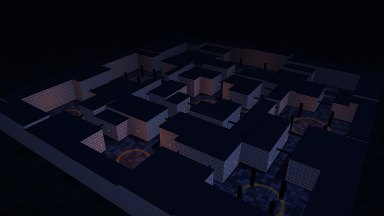
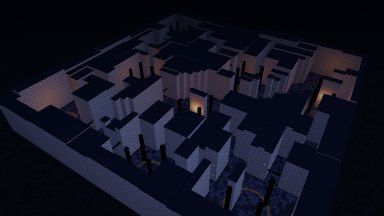
Horde's three compounds redesigned: three different layouts, far taller walls and pillars, wider and more winding halls
- Stone Warrens is now a warren of sixteen small rooms joined by passages that dogleg and zigzag, some neighbours with no door between them
- Lantern Alleys is a town with one broad street winding diagonally from gate to gate, yards off it, and twisting back alleys
- Frost Garrison is a hub and eight great halls joined by two long snaking tunnels and crooked side passages
- Walls and pillars stand 14 m (were 6.4 m); beams at two heights; lanterns high and low
- Halls are 7.5 m wide (were 6 m), back alleys 5 m, the main street 10 m; rooms have partitions
- Laid out on a finer grid (2.5 m cells), halls drawn point to point so they can turn anywhere

Changed region(s): [[0.0, 0.0556, 0.9688, 1.0], [0.625, 0.9722, 0.6562, 1.0], [0.2812, 0.1944, 0.3125, 0.2222]]

diff --git a/src/compound.js b/src/compound.js
@@ -1,35 +1,56 @@
-// The Horde's maps: compounds. A solid mass of buildings with rooms and corridors cut into it, like a floor plan seen
-// from above: big rooms to make a stand in, long corridors to run down, and loops everywhere so you are never cornered
-// for long. There is no way over the walls (they can't be hooked, and an unseen ceiling stops a climb), so the horde
-// has to come at you through the doors, and you have to keep moving. Beams cross the corridors overhead and pillars
-// stand in the big rooms: those you can hook, to haul yourself along.
+// The Horde's maps: compounds. A solid mass of buildings with rooms and passages cut into it, like a floor plan seen
+// from above: rooms to make a stand in, passages that twist and double back, and loops everywhere so you are never
+// cornered for long. The walls stand far too high to get over (they can't be hooked, and an unseen ceiling at their
+// tops stops any climb), so the horde has to come at you through the doors, and you have to keep moving. Beams cross
+// the passages overhead and tall pillars stand in the big rooms: those you can hook, to haul yourself along or up.
 //
-// A layout is drawn on a grid of 3 m cells: rooms and halls are rectangles of cells [i0, j0, i1, j1] (inclusive) cut out
-// of the solid. Everything else here is worked out from that: the blocks, pillars, crates, beams, lanterns, the places
-// to come in, the painted floor, and a grid the bots find their way on.
+// A layout is drawn on a grid of 2.5 m cells, cut out of the solid:
+//   rooms  rectangles of cells [i0, j0, i1, j1] (inclusive);
+//   halls  [width, [i, j], [i, j], ...]: a passage `width` cells wide run from point to point (each point is the
+//          top-left cell of the passage there), turning wherever the points do; a slanted leg is cut in steps;
+//   walls  rectangles put back in afterwards (a partition across a room).
+// The three are laid out differently on purpose: a warren of small rooms and doglegs, a town with one winding
+// street and back alleys, and a fort of great halls joined by long snaking tunnels. Everything else here is worked
+// out from the grid: the blocks, pillars, crates, beams, lanterns, the places to come in, the painted floor, and
+// the way the bots find their route.
 import * as THREE from 'three';
 
-const CELL = 3, G = 42, H = 6.4; // cell size, cells each way, how high the walls stand (and where the unseen ceiling is)
+const CELL = 2.5, G = 50, H = 14; // cell size, cells each way, how high the walls stand (and where the unseen ceiling is)
 const LAYOUTS = {
-  // Stone Warrens: nine rooms of a castle joined by passages, a court in the middle
-  warrens: { rooms: [[16, 32, 25, 39], [2, 24, 9, 31], [3, 4, 10, 11], [16, 2, 24, 8], [30, 3, 39, 10], [31, 18, 39, 26], [30, 32, 38, 38], [16, 15, 25, 23], [3, 15, 8, 19]],
-    halls: [[20, 24, 21, 31], [6, 34, 15, 35], [6, 32, 7, 33], [5, 20, 6, 23], [5, 12, 6, 14], [11, 6, 15, 7], [25, 5, 29, 6], [35, 11, 36, 17], [34, 27, 35, 31], [26, 35, 29, 36],
-      [9, 17, 15, 18], [19, 9, 20, 14], [26, 20, 30, 21], [24, 12, 25, 14], [26, 12, 33, 13], [32, 11, 33, 11], [10, 27, 15, 28], [14, 22, 15, 26]] },
-  // Lantern Alleys: a town at night. A ring of alleys round a well, a spoke to each side, yards and nooks off it
-  alleys: { rooms: [[17, 33, 24, 39], [2, 16, 11, 24], [15, 2, 26, 9], [31, 14, 39, 22], [18, 18, 23, 23], [3, 31, 9, 38], [32, 3, 38, 8], [31, 30, 38, 37]],
-    halls: [[13, 13, 28, 14], [13, 27, 28, 28], [13, 13, 14, 28], [27, 13, 28, 28], [20, 15, 21, 17], [20, 24, 21, 26], [15, 20, 17, 21], [24, 20, 26, 21],
-      [20, 10, 21, 12], [20, 29, 21, 32], [12, 20, 12, 21], [29, 18, 30, 19], [10, 35, 16, 36], [5, 25, 6, 30], [6, 5, 7, 15], [8, 5, 14, 6], [27, 5, 31, 6], [35, 9, 36, 13], [34, 23, 35, 29], [25, 34, 30, 35]] },
-  // Frost Garrison: a fort in the snow. A great drill yard, a hall on each side of it, a walk right round inside the walls, a tower at each corner
-  garrison: { rooms: [[14, 14, 27, 27], [17, 2, 24, 7], [16, 33, 25, 39], [2, 17, 8, 24], [33, 16, 39, 25], [2, 3, 7, 9], [34, 3, 39, 9], [2, 32, 7, 38], [34, 32, 39, 38]],
-    halls: [[20, 8, 21, 13], [20, 28, 21, 32], [9, 20, 13, 21], [28, 20, 32, 21], [4, 10, 37, 11], [4, 30, 37, 31], [4, 10, 5, 31], [36, 10, 37, 31]] },
+  // Stone Warrens: sixteen small rooms in a castle, joined by short passages that dogleg and zigzag; some rooms
+  // have no door to their neighbour, so the way round is never the straight one
+  warrens: { rooms: [[16, 36, 24, 47], [2, 2, 9, 8], [14, 2, 22, 7], [14, 8, 16, 10], [27, 2, 34, 9], [39, 2, 47, 10], [2, 13, 8, 21], [13, 12, 20, 19], [25, 14, 33, 22], [38, 15, 47, 22],
+      [2, 26, 10, 33], [15, 25, 22, 31], [27, 27, 35, 34], [40, 27, 47, 35], [3, 38, 11, 47], [29, 39, 36, 47], [41, 40, 47, 47]],
+    halls: [[3, [10, 4], [13, 4]], [2, [23, 3], [24, 3], [24, 6], [26, 6]], [3, [35, 5], [38, 5]], [2, [4, 9], [4, 10], [6, 10], [6, 12]], [3, [9, 16], [12, 16]],
+      [2, [18, 8], [18, 9], [16, 9], [16, 11]], [2, [30, 10], [30, 11], [28, 11], [28, 13]], [3, [34, 18], [37, 18]], [2, [43, 11], [43, 12], [41, 12], [41, 14]],
+      [2, [4, 22], [4, 23], [6, 23], [6, 25]], [2, [14, 20], [14, 22], [18, 22], [18, 24]], [3, [23, 28], [26, 28]], [2, [31, 23], [31, 24], [29, 24], [29, 26]], [3, [36, 30], [39, 30]],
+      [2, [5, 34], [5, 35], [7, 35], [7, 37]], [3, [12, 41], [15, 41]], [2, [19, 32], [19, 33], [21, 33], [21, 35]], [3, [25, 42], [28, 42]], [2, [32, 35], [32, 36], [34, 36], [34, 38]],
+      [2, [45, 36], [45, 37], [43, 37], [43, 39]], [2, [21, 12], [23, 12], [23, 10], [25, 10], [25, 13]], [2, [11, 30], [12, 30], [12, 34], [14, 34], [14, 37], [15, 37]], [2, [37, 44], [38, 44], [38, 37], [39, 37]]],
+    walls: [[20, 39, 20, 44], [29, 16, 29, 20], [41, 6, 45, 6], [5, 29, 7, 29]] },
+  // Lantern Alleys: a town at night. One broad street winds through it from the south-west gate to the north-east
+  // one; yards open off it, and narrow back alleys twist between them
+  alleys: { rooms: [[2, 38, 8, 47], [8, 24, 15, 31], [22, 26, 30, 34], [26, 12, 34, 19], [41, 10, 48, 18], [40, 1, 48, 7], [2, 2, 10, 9], [36, 36, 46, 46], [3, 13, 9, 19], [22, 40, 30, 47]],
+    halls: [[4, [3, 42], [12, 42], [18, 36], [18, 28], [24, 22], [32, 22], [38, 16], [38, 8], [44, 4]],
+      [2, [5, 37], [5, 34], [9, 34], [9, 32]], [2, [10, 23], [10, 21], [6, 21], [6, 20]], [2, [5, 12], [5, 10]], [2, [11, 5], [15, 5], [15, 9], [20, 9], [20, 14], [25, 14]],
+      [2, [29, 20], [29, 21]], [2, [35, 14], [37, 14]], [2, [25, 35], [25, 39]], [2, [31, 43], [33, 43], [33, 40], [35, 40]], [2, [42, 35], [42, 30], [45, 30], [45, 24], [43, 24], [43, 19]],
+      [2, [31, 30], [34, 30], [34, 34], [37, 34], [37, 35]], [2, [16, 27], [17, 27]], [2, [16, 44], [21, 44]], [2, [39, 3], [30, 3], [30, 11]], [2, [11, 28], [11, 34], [13, 34], [13, 39]]],
+    walls: [[25, 29, 27, 29], [39, 40, 39, 43], [44, 13, 46, 13]] },
+  // Frost Garrison: a fort in the snow. A hub in the middle and eight great halls round it, joined by two long
+  // tunnels that snake across the north and the south, and by crooked passages down each side
+  garrison: { rooms: [[20, 41, 29, 47], [19, 19, 30, 30], [3, 3, 13, 11], [36, 3, 46, 12], [3, 37, 13, 46], [36, 38, 46, 46], [20, 2, 29, 8], [2, 20, 8, 29], [41, 19, 47, 30]],
+    halls: [[3, [14, 6], [16, 6], [16, 12], [23, 12], [23, 15], [32, 15], [32, 9], [35, 9]], [3, [14, 42], [16, 42], [16, 36], [24, 36], [24, 33], [33, 33], [33, 40], [35, 40]],
+      [2, [24, 9], [24, 11]], [2, [25, 39], [25, 40]], [2, [6, 12], [6, 15], [4, 15], [4, 19]], [2, [4, 30], [4, 33], [7, 33], [7, 36]], [2, [42, 13], [42, 16], [44, 16], [44, 18]], [2, [44, 31], [44, 34], [41, 34], [41, 37]],
+      [3, [24, 18], [24, 18]], [3, [24, 31], [24, 31]], [3, [9, 24], [13, 24], [13, 26], [18, 26]], [3, [31, 23], [35, 23], [35, 26], [40, 26]],
+      [2, [10, 12], [10, 17], [13, 17], [13, 20]], [2, [38, 31], [38, 35], [36, 35], [36, 37]]],
+    walls: [[24, 23, 25, 26], [8, 6, 8, 8], [41, 41, 41, 43]] },
 };
 export const COMPOUNDS = Object.keys(LAYOUTS);
 const THEMES = {
-  warrens: { sky: { top: 0x3f6fb4, mid: 0xf0c79a, bot: 0xd9a070, fog: 0xe6c6a4, near: 70, far: 330, hemiSky: 0xfff2dc, hemiGround: 0xa8947c, hemi: 1.75, sunColor: 0xffe2b8, sun: 2.3, sunOff: new THREE.Vector3(-24, 78, 20) },
+  warrens: { sky: { top: 0x3f6fb4, mid: 0xf0c79a, bot: 0xd9a070, fog: 0xe6c6a4, near: 70, far: 330, hemiSky: 0xfff2dc, hemiGround: 0xb8a48c, hemi: 2.2, sunColor: 0xffe2b8, sun: 2.3, sunOff: new THREE.Vector3(-24, 78, 20) },
     wall: 0xb8b0a4, roof: 0x5d5a60, floor: ['#8d8a86', '#74716e', '#a09c96'], lamp: 0xffb060, beam: 0x5a3d28, crest: 'rgba(150,40,34,0.55)', land: 0x7c8a5c },
-  alleys: { sky: { top: 0x04060f, mid: 0x1b2440, bot: 0x0b0f1c, fog: 0x1a2238, near: 40, far: 260, hemiSky: 0x8f9fd8, hemiGround: 0x3a3440, hemi: 1.3, sunColor: 0xa9c0ff, sun: 1.5, sunOff: new THREE.Vector3(26, 80, -18) },
+  alleys: { sky: { top: 0x04060f, mid: 0x1b2440, bot: 0x0b0f1c, fog: 0x1a2238, near: 40, far: 260, hemiSky: 0x9fafe8, hemiGround: 0x4a4450, hemi: 1.7, sunColor: 0xa9c0ff, sun: 1.5, sunOff: new THREE.Vector3(26, 80, -18) },
     wall: 0xd9cfbd, roof: 0x23252d, floor: ['#4c4a50', '#3c3a40', '#5a585e'], lamp: 0xffa040, beam: 0x3a2618, crest: 'rgba(214,150,60,0.5)', land: 0x232a26, night: true, timber: true },
-  garrison: { sky: { top: 0x8fa6c6, mid: 0xe9eef4, bot: 0xffffff, fog: 0xe2e8f0, near: 50, far: 280, hemiSky: 0xffffff, hemiGround: 0xa8b4c4, hemi: 1.35, sunColor: 0xfff6ea, sun: 1.7, sunOff: new THREE.Vector3(20, 76, 28) },
+  garrison: { sky: { top: 0x8fa6c6, mid: 0xe9eef4, bot: 0xffffff, fog: 0xe2e8f0, near: 50, far: 280, hemiSky: 0xffffff, hemiGround: 0xb8c4d4, hemi: 1.75, sunColor: 0xfff6ea, sun: 1.7, sunOff: new THREE.Vector3(20, 76, 28) },
     wall: 0xb9c2cc, roof: 0xf2f6fa, floor: ['#dfe5ec', '#c9d1da', '#eef2f6'], lamp: 0xffc070, beam: 0x4a3a30, crest: 'rgba(44,90,160,0.5)', land: 0xe6ecf2 },
 };
 
@@ -38,9 +59,15 @@ export function buildCompound(A, T) {
   A.plats = []; A.pillars = []; A.killY = -30; A.setSky(TH.sky);
   const O = -G * CELL / 2, cx = (i) => O + (i + 0.5) * CELL, X0 = (i) => O + i * CELL; // (a cell's middle; its near edge)
 
-  // ---- the grid: '#' solid, '.' floor, 'o' a pillar, 'x' a crate
+  // ---- the grid: '#' solid, '.' floor, 'o' a pillar, 'x' a crate. Rooms are cut first, then the halls from point to point, then the partitions put back
   const g = Array.from({ length: G }, () => Array(G).fill('#'));
-  for (const [i0, j0, i1, j1] of [...L.rooms, ...L.halls]) for (let j = j0; j <= j1; j++) for (let i = i0; i <= i1; i++) g[j][i] = '.';
+  const carve = (i0, j0, i1, j1, c) => { for (let j = Math.max(1, j0); j <= Math.min(G - 2, j1); j++) for (let i = Math.max(1, i0); i <= Math.min(G - 2, i1); i++) g[j][i] = c; };
+  for (const [i0, j0, i1, j1] of L.rooms) carve(i0, j0, i1, j1, '.');
+  const legs = []; // (every straight leg of every hall: [i, j, length, does it run along z, width], for the beams)
+  for (const [w, ...pts] of L.halls) for (let k = 0; k < pts.length; k++) { const [a, b] = pts[k], [c, d] = pts[Math.min(k + 1, pts.length - 1)], n = Math.max(Math.abs(c - a), Math.abs(d - b), 1);
+    for (let s = 0; s <= n; s++) { const i = Math.round(a + (c - a) * s / n), j = Math.round(b + (d - b) * s / n); carve(i, j, i + w - 1, j + w - 1, '.'); } // (a slanted leg comes out stepped)
+    if (k + 1 < pts.length && (a === c || b === d)) legs.push(a === c ? [a, Math.min(b, d), Math.abs(d - b) + w, true, w] : [Math.min(a, c), b, Math.abs(c - a) + w, false, w]); }
+  for (const [i0, j0, i1, j1] of L.walls || []) carve(i0, j0, i1, j1, '#');
   const at = (i, j) => (i < 0 || j < 0 || i >= G || j >= G ? '#' : g[j][i]), open = (i, j) => at(i, j) !== '#', walk = (i, j) => at(i, j) === '.';
   const spawnCells = [];
   for (const [i0, j0, i1, j1] of L.rooms) {
@@ -89,25 +116,26 @@ export function buildCompound(A, T) {
 
   // ---- pillars (to hook, and to fight round) and crates (to jump on)
   for (let j = 0; j < G; j++) for (let i = 0; i < G; i++) {
-    if (g[j][i] === 'o') { A.addDisc(cx(i), cx(j), 0.62, 0, H, id === 'alleys' ? beamM : wallM, 12); A.pillars.push({ x: cx(i), z: cx(j), w: 1.3 }); }
+    if (g[j][i] === 'o') { A.addDisc(cx(i), cx(j), 0.8, 0, H, id === 'alleys' ? beamM : wallM, 14); A.pillars.push({ x: cx(i), z: cx(j), w: 1.7 }); } // (as tall as the walls: hook it high and swing)
     if (g[j][i] === 'x') { const s = 0.75 + r() * 0.3, hh = 1.0 + r() * 0.5; A.addBox(cx(i) - s, cx(i) + s, 0, hh, cx(j) - s, cx(j) + s, crateM, { plain: true }); } }
 
   // ---- beams overhead along every hall, to hook and haul yourself down it (not solid: you pass under them)
-  { const beams = [];
-    for (const [i0, j0, i1, j1] of L.halls) { const w = i1 - i0 + 1, d = j1 - j0 + 1, alongZ = d >= w, n = alongZ ? d : w;
-      for (let k = 0; k < n; k += 4) { const j = alongZ ? j0 + k : j0, i = alongZ ? i0 : i0 + k;
-        const b = alongZ ? { x0: X0(i0), x1: X0(i1 + 1), y0: 4.5, y1: 5.0, z0: cx(j) - 0.22, z1: cx(j) + 0.22 } : { x0: cx(i) - 0.22, x1: cx(i) + 0.22, y0: 4.5, y1: 5.0, z0: X0(j0), z1: X0(j1 + 1) };
-        A.rayBoxes.push(b); beams.push(b); } }
+  { const beams = []; let nb = 0;
+    for (const [i, j, len, alongZ, w] of legs) for (let k = 1; k < len; k += 4) { const bi = alongZ ? i : i + k, bj = alongZ ? j + k : j, span = Array.from({ length: w }, (_, q) => (alongZ ? open(bi + q, bj) : open(bi, bj + q))).every(Boolean);
+      if (!span || (alongZ ? open(bi - 1, bj) || open(bi + w, bj) : open(bi, bj - 1) || open(bi, bj + w))) continue; // (only where there is a wall at each end to carry it)
+      const y = nb++ % 2 ? 9.2 : 5; // (a low one, then a high one)
+      const b = alongZ ? { x0: X0(bi), x1: X0(bi + w), y0: y, y1: y + 0.5, z0: cx(bj) - 0.24, z1: cx(bj) + 0.24 } : { x0: cx(bi) - 0.24, x1: cx(bi) + 0.24, y0: y, y1: y + 0.5, z0: X0(bj), z1: X0(bj + w) };
+      A.rayBoxes.push(b); beams.push(b); }
     const im = new THREE.InstancedMesh(new THREE.BoxGeometry(1, 1, 1), beamM, beams.length), mt = new THREE.Matrix4();
     beams.forEach((b, k) => { mt.makeScale(b.x1 - b.x0, b.y1 - b.y0, b.z1 - b.z0).setPosition((b.x0 + b.x1) / 2, (b.y0 + b.y1) / 2, (b.z0 + b.z1) / 2); im.setMatrixAt(k, mt); }); im.castShadow = true; im.frustumCulled = false; S.add(im); }
 
   // ---- lanterns on the walls (they glow; at night a light in the middle of each big room too)
   { const lamps = [];
     for (let j = 0; j < G; j++) for (let i = 0; i < G; i++) { if (!open(i, j) || (i * 7 + j * 13) % 5) continue;
-      for (const [di, dj] of [[1, 0], [-1, 0], [0, 1], [0, -1]]) if (!open(i + di, j + dj)) { lamps.push([cx(i) + di * (CELL / 2 - 0.12), 3.1, cx(j) + dj * (CELL / 2 - 0.12)]); break; } }
+      for (const [di, dj] of [[1, 0], [-1, 0], [0, 1], [0, -1]]) if (!open(i + di, j + dj)) { lamps.push([cx(i) + di * (CELL / 2 - 0.12), 3.1, cx(j) + dj * (CELL / 2 - 0.12)]); if ((i + j) % 2) lamps.push([cx(i) + di * (CELL / 2 - 0.12), 8.8, cx(j) + dj * (CELL / 2 - 0.12)]); break; } } // (and a second lantern high up on some)
     const im = new THREE.InstancedMesh(new THREE.BoxGeometry(0.22, 0.34, 0.22), lampM, lamps.length), mt = new THREE.Matrix4();
     lamps.forEach(([x, y, z], k) => { mt.makeTranslation(x, y, z); im.setMatrixAt(k, mt); }); im.frustumCulled = false; S.add(im);
-    if (TH.night && !low) for (const [i0, j0, i1, j1] of L.rooms.slice(0, 6)) { const p = new THREE.PointLight(TH.lamp, 26, 34, 1.6); p.position.set(X0((i0 + i1 + 1) / 2), 4.6, X0((j0 + j1 + 1) / 2)); S.add(p); } }
+    if (TH.night && !low) for (const [i0, j0, i1, j1] of L.rooms.slice(0, 6)) { const p = new THREE.PointLight(TH.lamp, 44, 46, 1.6); p.position.set(X0((i0 + i1 + 1) / 2), 7, X0((j0 + j1 + 1) / 2)); S.add(p); } }
 
   // ---- where fighters come in: the middle of every room, and near the ends of the big ones
   for (const [i, j] of spawnCells) { if (!walk(Math.round(i), Math.round(j))) continue; const sp = new THREE.Vector3(O + (i + 0.5) * CELL, 0.05, O + (j + 0.5) * CELL); sp.plat = 0; A.spawns.push(sp); }

diff --git a/index.html b/index.html
@@ -4,7 +4,7 @@
 <meta charset="utf-8">
 <meta name="viewport" content="width=device-width,initial-scale=1">
 <title>Sever</title>
-<meta name="build" content="20261121130943">
+<meta name="build" content="20261121131930">
 <link rel="icon" href="data:,">
 <script>
 // Live updates (as in Castle Rangers). version.json (never cached) names the newest build. A page older than that
@@ -216,12 +216,12 @@ window.severVersion.check().then(function (v) { if (v) window.severVersion.go(v)
 <script type="importmap">
 { "imports": {
   "three": "./vendor/three.module.min.js",
-  "./src/main.js": "./src/main.js?v=20261121130943",
-  "./src/arena.js": "./src/arena.js?v=20261121130943",
-  "./src/fighter.js": "./src/fighter.js?v=20261121130943",
-  "./src/slice.js": "./src/slice.js?v=20261121130943",
-  "./src/audio.js": "./src/audio.js?v=20261121130943",
-  "./src/net.js": "./src/net.js?v=20261121130943"
+  "./src/main.js": "./src/main.js?v=20261121131930",
+  "./src/arena.js": "./src/arena.js?v=20261121131930",
+  "./src/fighter.js": "./src/fighter.js?v=20261121131930",
+  "./src/slice.js": "./src/slice.js?v=20261121131930",
+  "./src/audio.js": "./src/audio.js?v=20261121131930",
+  "./src/net.js": "./src/net.js?v=20261121131930"
 } }
 </script>
 </head>
@@ -257,7 +257,7 @@ window.severVersion.check().then(function (v) { if (v) window.severVersion.go(v)
     <h1 class="logo"><span>SEVER</span><span class="lo" aria-hidden="true">SEVER</span></h1>
     <p class="tag">A third-person sword arena in the sky. Swing your blade with the mouse, and whatever it passes through is cut along that exact line.</p>
     <label>Your name <input id="name" maxlength="14" placeholder="Ronin"></label>
-      <label class="hidden">Map <select id="map"><option value="spire">Sky Spires: many small platforms</option><option value="plateaus">Sky Plateaus: a few huge platforms</option><option value="canopy">Great Canopy: tree branches and bamboo</option><option value="pagoda">Pagoda Falls: a sunset pagoda, stone islands and lacquer posts</option><option value="isles">Moonlit Isles: floating islands, a cherry tree and bamboo groves</option><option value="colosseum">Colosseum: a bowl of round platforms around a big arena floor</option><option value="dojo">Paper Dojo District: a town you can cut apart</option><option value="city">Glass Skyline: skyscrapers and steel frames to smash through</option><option value="bamboo">Bamboo Fort: everything is bamboo, even the floor</option><option value="foundry">Saw Foundry: blades, lifts and sliding platforms</option><option value="tilt">Swinging Decks: hanging decks that swing when you land</option><option value="grove">Topiary Grove: cloud-pruned trees in two facing rows</option><option value="comet">Comet Crash: asteroids riding a comet into a planet</option><option value="lava">Lava Climb</option><option value="run">Branch Run</option><option value="transport">Transport</option><option value="train">Bullet Train</option><option value="ships">Sky Duel</option><option value="warrens">Stone Warrens: a castle of rooms and passages</option><option value="alleys">Lantern Alleys: a town at night</option><option value="garrison">Frost Garrison: a fort in the snow</option><option value="boss">ChopSocky: a new random arena for every boss</option></select></label>
+      <label class="hidden">Map <select id="map"><option value="spire">Sky Spires: many small platforms</option><option value="plateaus">Sky Plateaus: a few huge platforms</option><option value="canopy">Great Canopy: tree branches and bamboo</option><option value="pagoda">Pagoda Falls: a sunset pagoda, stone islands and lacquer posts</option><option value="isles">Moonlit Isles: floating islands, a cherry tree and bamboo groves</option><option value="colosseum">Colosseum: a bowl of round platforms around a big arena floor</option><option value="dojo">Paper Dojo District: a town you can cut apart</option><option value="city">Glass Skyline: skyscrapers and steel frames to smash through</option><option value="bamboo">Bamboo Fort: everything is bamboo, even the floor</option><option value="foundry">Saw Foundry: blades, lifts and sliding platforms</option><option value="tilt">Swinging Decks: hanging decks that swing when you land</option><option value="grove">Topiary Grove: cloud-pruned trees in two facing rows</option><option value="comet">Comet Crash: asteroids riding a comet into a planet</option><option value="lava">Lava Climb</option><option value="run">Branch Run</option><option value="transport">Transport</option><option value="train">Bullet Train</option><option value="ships">Sky Duel</option><option value="warrens">Stone Warrens: a warren of small rooms and doglegs</option><option value="alleys">Lantern Alleys: a winding street and back alleys</option><option value="garrison">Frost Garrison: great halls and snaking tunnels</option><option value="boss">ChopSocky: a new random arena for every boss</option></select></label>
     <div class="row"><button class="primary" id="quickBtn" title="Jump into an online match: random mode and map, bots fill the empty spots">Online Quick Match</button></div>
     <div class="muted" id="liveCount" style="margin:-4px 0 6px">Looking for live games…</div>
     <div class="row"><button id="toMp" class="wide">Create Online Match</button></div>
@@ -400,6 +400,6 @@ window.severVersion.check().then(function (v) { if (v) window.severVersion.go(v)
 <div id="toast" style="opacity:0"></div>
 <div id="loading">Loading…</div>
 <noscript><p style="position:fixed;inset:0;display:flex;align-items:center;justify-content:center">Sever needs JavaScript and WebGL.</p></noscript>
-<script type="module" src="src/main.js?v=20261121130943"></script>
+<script type="module" src="src/main.js?v=20261121131930"></script>
 </body>
 </html>

diff --git a/src/arena.js b/src/arena.js
@@ -3,25 +3,25 @@
 // so collision and "what am I standing on" stay simple and identical in every browser.
 import * as THREE from 'three';
 import { buildPagoda, buildIsles, buildBowl } from './maps2.js';
-import { barkMat, barkUV, barkMap } from './bark.js?v=20261121130943';
-import { buildTilt } from './tilt.js?v=20261121130943';
-import { buildFoundry } from './foundry.js?v=20261121130943';
-import { buildBamboo } from './bamboo.js?v=20261121130943';
-import { buildCity } from './city.js?v=20261121130943';
-import { buildDojo } from './dojo.js?v=20261121130943';
-import { buildComet } from './comet.js?v=20261121130943';
-import { buildLava } from './lava.js?v=20261121130943';
-import { buildRun } from './run.js?v=20261121130943';
-import { buildGrove } from './grove.js?v=20261121130943';
-import { buildTransport } from './transport.js?v=20261121130943';
-import { buildTutorial } from './tutorial.js?v=20261121130943';
-import { buildTrain } from './train.js?v=20261121130943';
-import { buildCompound, COMPOUNDS } from './compound.js?v=20261121130943';
-import { buildAirship } from './airship.js?v=20261121130943';
-import { applyLook } from './look.js?v=20261121130943';
-import { addScenery } from './scenery.js?v=20261121130943';
-import { addAtmosphere } from './atmos.js?v=20261121130943';
-import { makeMesa, mesaMesh } from './mesa.js?v=20261121130943';
+import { barkMat, barkUV, barkMap } from './bark.js?v=20261121131930';
+import { buildTilt } from './tilt.js?v=20261121131930';
+import { buildFoundry } from './foundry.js?v=20261121131930';
+import { buildBamboo } from './bamboo.js?v=20261121131930';
+import { buildCity } from './city.js?v=20261121131930';
+import { buildDojo } from './dojo.js?v=20261121131930';
+import { buildComet } from './comet.js?v=20261121131930';
+import { buildLava } from './lava.js?v=20261121131930';
+import { buildRun } from './run.js?v=20261121131930';
+import { buildGrove } from './grove.js?v=20261121131930';
+import { buildTransport } from './transport.js?v=20261121131930';
+import { buildTutorial } from './tutorial.js?v=20261121131930';
+import { buildTrain } from './train.js?v=20261121131930';
+import { buildCompound, COMPOUNDS } from './compound.js?v=20261121131930';
+import { buildAirship } from './airship.js?v=20261121131930';
+import { applyLook } from './look.js?v=20261121131930';
+import { addScenery } from './scenery.js?v=20261121131930';
+import { addAtmosphere } from './atmos.js?v=20261121131930';
+import { makeMesa, mesaMesh } from './mesa.js?v=20261121131930';
 const NONE = [];
 const _bm = new THREE.Matrix4(), _bp = new THREE.Vector3(), _bq = new THREE.Quaternion(), _bs = new THREE.Vector3(), _UP = new THREE.Vector3(0, 1, 0); // bamboo instance updates
 
@@ -169,9 +169,9 @@ export const MAPS = {
   ships: { name: 'Sky Duel', blurb: 'two great airship planes racing side by side above the clouds, weaving round each other: decks and wings to fight on; hook anything underneath and the rope swings you out and up over the edge; keep clear of the propellers' },
   boss: { name: 'ChopSocky', blurb: 'a different arena for every boss, drawn at random from all the ordinary maps: beat one and you are sent on to the next' }, // (never built itself: see rollBossMap in main.js)
   // the Horde's compounds: rooms and corridors cut into a solid mass of buildings (see compound.js)
-  warrens: { name: 'Stone Warrens', blurb: 'a castle of nine rooms joined by passages, a court in the middle: nowhere to hide, a loop round every corner' },
-  alleys: { name: 'Lantern Alleys', blurb: 'a town at night: a ring of alleys round a well, yards and nooks off it, lanterns on every wall' },
-  garrison: { name: 'Frost Garrison', blurb: 'a fort in the snow: a great drill yard, a hall on each side, a walk right round inside the walls and a tower at each corner' },
+  warrens: { name: 'Stone Warrens', blurb: 'a castle warren: sixteen small rooms joined by passages that dogleg and zigzag, towering walls, and no straight way to anywhere' },
+  alleys: { name: 'Lantern Alleys', blurb: 'a town at night: one broad street winding from gate to gate, yards opening off it, and narrow back alleys twisting between them' },
+  garrison: { name: 'Frost Garrison', blurb: 'a fort in the snow: a hub and eight great halls, joined by two long tunnels that snake across it and crooked passages down each side' },
   tutorial: { name: 'Training Ground', blurb: 'four platforms in a line: a short course that teaches every move' },
 };
 

diff --git a/src/main.js b/src/main.js
@@ -1,20 +1,20 @@
 import * as THREE from 'three';
-import { Arena, MAPS } from './arena.js?v=20261121130943';
-import { Fighter, PALETTE, GUARD, setMetalEnv, metalEnvFor } from './fighter.js?v=20261121130943';
-import { bakeMeshes, Pieces, Particles, splitSoup } from './slice.js?v=20261121130943';
-import { sfx, ensureAudio, setListener, setVolume, setMuted } from './audio.js?v=20261121130943';
-import * as net from './net.js?v=20261121130943';
-import { MODES, POINT_MODES, MODE_GOAL, ModeFx, makeCrown } from './modes.js?v=20261121130943';
-import { profile, addCoins, randomLook, cleanLook, item, cleanUp, upMul } from './cosmetics.js?v=20261121130943';
-import { makeKillFx } from './killfx.js?v=20261121130943';
-import { makeGrapple } from './grapple.js?v=20261121130943';
-import { initShop } from './shop.js?v=20261121130943';
-import { breakChunk, chunkSoup } from './dojo.js?v=20261121130943';
-import { portal } from './portal.js?v=20261121130943';
-import { Piranhas, GiantSaws, GiantBirds } from './piranha.js?v=20261121130943';
-import { makePost } from './post.js?v=20261121130943';
-import { makeSliceLines, makeBlob } from './vfx.js?v=20261121130943';import { addXp, track, progressHtml, levelOf } from './progress.js?v=20261121130943';
-import { BOARDS, lbAdd, lbMet, lbTop, lbSave, lbWorld, weekLeft } from './boards.js?v=20261121130943';
+import { Arena, MAPS } from './arena.js?v=20261121131930';
+import { Fighter, PALETTE, GUARD, setMetalEnv, metalEnvFor } from './fighter.js?v=20261121131930';
+import { bakeMeshes, Pieces, Particles, splitSoup } from './slice.js?v=20261121131930';
+import { sfx, ensureAudio, setListener, setVolume, setMuted } from './audio.js?v=20261121131930';
+import * as net from './net.js?v=20261121131930';
+import { MODES, POINT_MODES, MODE_GOAL, ModeFx, makeCrown } from './modes.js?v=20261121131930';
+import { profile, addCoins, randomLook, cleanLook, item, cleanUp, upMul } from './cosmetics.js?v=20261121131930';
+import { makeKillFx } from './killfx.js?v=20261121131930';
+import { makeGrapple } from './grapple.js?v=20261121131930';
+import { initShop } from './shop.js?v=20261121131930';
+import { breakChunk, chunkSoup } from './dojo.js?v=20261121131930';
+import { portal } from './portal.js?v=20261121131930';
+import { Piranhas, GiantSaws, GiantBirds } from './piranha.js?v=20261121131930';
+import { makePost } from './post.js?v=20261121131930';
+import { makeSliceLines, makeBlob } from './vfx.js?v=20261121131930';import { addXp, track, progressHtml, levelOf } from './progress.js?v=20261121131930';
+import { BOARDS, lbAdd, lbMet, lbTop, lbSave, lbWorld, weekLeft } from './boards.js?v=20261121131930';
 
 // ---------- settings ----------
 const store = {

diff --git a/src/modes.js b/src/modes.js
@@ -14,7 +14,7 @@ export const MODES = {
   train: { name: 'Bullet Train', blurb: 'Fight on the roofs of a very long train racing through five landscapes. Only the train can be hooked. Over valleys, swing under it and back up, and slice the trestle legs and beams as they race past: the bridge sags there and every car dips as it crosses. Tunnels sweep the roofs: drop into a flatbed and fight by the lamplight. Jump the low signal arms; get off the roof for the high ones. Respawns; most kills wins. Always played on Bullet Train.' },
   ships: { name: 'Sky Duel', blurb: 'Red against blue, each crew on its own airship plane. The two ships weave round each other above the clouds, swapping sides and passing one over the other. Jump or swing across when they close, hook anything underneath a ship to swing out from below it, and come back up over a wing. You respawn on your own ship. First crew to 30 kills wins. Always played on Sky Duel.' },
   tutorial: { name: 'Training', solo: true, blurb: 'Learn the moves one at a time: move, jump, cut, dash, hook, wall jump, then a sparring match.' },
-  horde: { name: 'Horde', blurb: 'Co-op: everyone together against waves of oni, in a compound of rooms and corridors with no way over the walls. They come at you through the doors, so keep moving: run, turn and fight. Hook the beams and pillars to haul yourself along. Played on Stone Warrens, Lantern Alleys or Frost Garrison.' },
+  horde: { name: 'Horde', blurb: 'Co-op: everyone together against waves of oni, in a compound of rooms and twisting passages, its walls far too high to get over. They come at you through the doors, so keep moving: run, turn and fight. Hook the beams and the tall pillars to haul yourself along or up. Played on Stone Warrens, Lantern Alleys or Frost Garrison.' },
   boss: { name: 'ChopSocky', solo: true, blurb: 'Solo, 1v1: fight through one boss after another, each with its own tricks, each in a different arena drawn at random: beat one and you are sent on to the next. Bosses take several cuts to bring down. You have 3 lives, and beating a boss gives one back. After the eighth they come round again, harder. How far can you get?' },
 };
 export const POINT_MODES = new Set(['koth', 'jugg', 'hunt']); // won on points rather than kills

diff --git a/src/shop.js b/src/shop.js
@@ -1,10 +1,10 @@
 // The shop screen: browse by category, try things on a turning, swinging preview fighter, buy and equip.
 import * as THREE from 'three';
-import { Fighter, PALETTE, setMetalEnv, metalEnvFor } from './fighter.js?v=20261121130943';
-import { Particles, Pieces, bakeMeshes } from './slice.js?v=20261121130943';
-import { makeKillFx } from './killfx.js?v=20261121130943';
-import { makeGrapple } from './grapple.js?v=20261121130943';
-import { CATEGORIES, CATALOG, item, profile, owns, buy, equip, UPGRADES, UP_MAX, UP_PRICES, buyUpgrade, upText, tierOf } from './cosmetics.js?v=20261121130943';
+import { Fighter, PALETTE, setMetalEnv, metalEnvFor } from './fighter.js?v=20261121131930';
+import { Particles, Pieces, bakeMeshes } from './slice.js?v=20261121131930';
+import { makeKillFx } from './killfx.js?v=20261121131930';
+import { makeGrapple } from './grapple.js?v=20261121131930';
+import { CATEGORIES, CATALOG, item, profile, owns, buy, equip, UPGRADES, UP_MAX, UP_PRICES, buyUpgrade, upText, tierOf } from './cosmetics.js?v=20261121131930';
 
 const $ = (id) => document.getElementById(id);
 const hex = (c) => '#' + c.toString(16).padStart(6, '0');

diff --git a/src/fighter.js b/src/fighter.js
@@ -2,9 +2,9 @@
 // cleanly), posed each frame with a long-striding run cycle, two-bone IK for arms and legs, and a sword
 // driven by the swing input (s.x, s.y).
 import * as THREE from 'three';
-import { rim } from './vfx.js?v=20261121130943';
-import { buildBody, poseBody } from './body.js?v=20261121130943';
-import { item, cleanLook } from './cosmetics.js?v=20261121130943';
+import { rim } from './vfx.js?v=20261121131930';
+import { buildBody, poseBody } from './body.js?v=20261121131930';
+import { item, cleanLook } from './cosmetics.js?v=20261121131930';
 
 // Every material that can end up on a sliced piece is registered here, so a piece's single mesh can use
 // one shared material array and keep each triangle's look.

diff --git a/src/city.js b/src/city.js
@@ -3,9 +3,9 @@
 // breakable chunks as the Paper Dojo: every window pane shatters, office partitions and crates break, and the
 // steel frames (unbreakable) are there to swing from, run along and stand on.
 import * as THREE from 'three';
-import { cloudHeaps } from './scenery.js?v=20261121130943';
+import { cloudHeaps } from './scenery.js?v=20261121131930';
 import { deck, prop } from './maps2.js';
-import { kindMats, chunk, group, wall, stack, finishBrk, kill } from './dojo.js?v=20261121130943';
+import { kindMats, chunk, group, wall, stack, finishBrk, kill } from './dojo.js?v=20261121131930';
 
 const TAU = Math.PI * 2;
 const std = (color, o = {}) => new THREE.MeshStandardMaterial({ color, roughness: 0.8, ...o });

diff --git a/src/maps2.js b/src/maps2.js
@@ -3,8 +3,8 @@
 //   Pagoda Falls: a three-tier pagoda at sunset, stone islands, rock spires and terraces, red lacquer posts.
 //   Moonlit Isles: floating grass islands at night, a great cherry tree, rope bridges, bamboo groves.
 import * as THREE from 'three';
-import { buildMaw, mawY, buildTendrils } from './maw.js?v=20261121130943';
-import { glow, aurora } from './look.js?v=20261121130943';
+import { buildMaw, mawY, buildTendrils } from './maw.js?v=20261121131930';
+import { glow, aurora } from './look.js?v=20261121131930';
 
 const TAU = Math.PI * 2;
 const std = (color, o = {}) => new THREE.MeshStandardMaterial({ color, roughness: 0.8, ...o });

diff --git a/src/tilt.js b/src/tilt.js
@@ -5,8 +5,8 @@
 // whoever is on it; a new one is hung back on 10 s later.
 import * as THREE from 'three';
 import { drift } from './maps2.js';
-import { glow, aurora } from './look.js?v=20261121130943';
-import { cloudHeaps } from './scenery.js?v=20261121130943';
+import { glow, aurora } from './look.js?v=20261121131930';
+import { cloudHeaps } from './scenery.js?v=20261121131930';
 
 const TAU = Math.PI * 2, N = 6, R = 14, DISH = 1.9, ARM = 25, L = 22, HUB = 40, MAXOFF = 2; // platforms, radius, dish depth, crown arm, chain, crown height, extra swing
 const std = (color, o = {}) => new THREE.MeshStandardMaterial({ color, roughness: 0.7, ...o });

diff --git a/src/boards.js b/src/boards.js
@@ -1,7 +1,7 @@
 // Leaderboards: your record on each board, for this week and for all time, ranked against the players you have met
 // online (their results in the matches you shared). It all lives in the saved profile. `remote` is where a worldwide
 // table plugs in: an object with top(board, week) -> [{ name, v }] and submit(entry); until one is set, ranks are local.
-import { profile, saveProfile } from './cosmetics.js?v=20261121130943';
+import { profile, saveProfile } from './cosmetics.js?v=20261121131930';
 
 export const BOARDS = [ // max: the best single value counts, not a running total
   { id: 'kills', name: 'Kills', unit: 'Kills' },

diff --git a/src/progress.js b/src/progress.js
@@ -1,7 +1,7 @@
 // Reasons to come back: experience and levels (a coin reward at each new level), and three daily challenges that change
 // at midnight (your own clock). All of it lives in the saved profile, next to the coins.
-import { profile, saveProfile } from './cosmetics.js?v=20261121130943';
-import { lbAdd } from './boards.js?v=20261121130943';
+import { profile, saveProfile } from './cosmetics.js?v=20261121131930';
+import { lbAdd } from './boards.js?v=20261121131930';
 
 profile.xp = Math.max(0, Math.floor(+profile.xp || 0));
 export const xpFor = (lv) => 100 + (lv - 1) * 60; // (what it takes to get from this level to the next)
